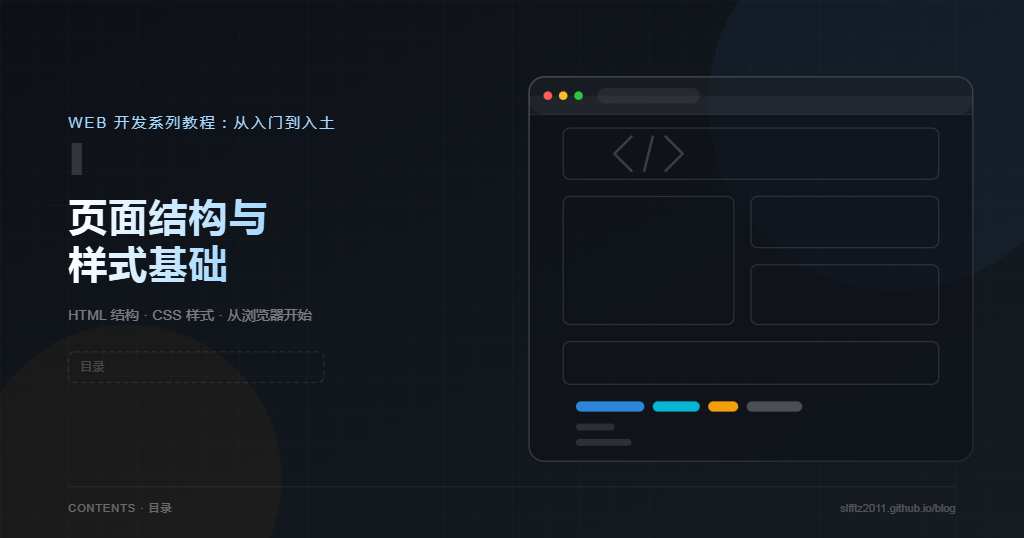
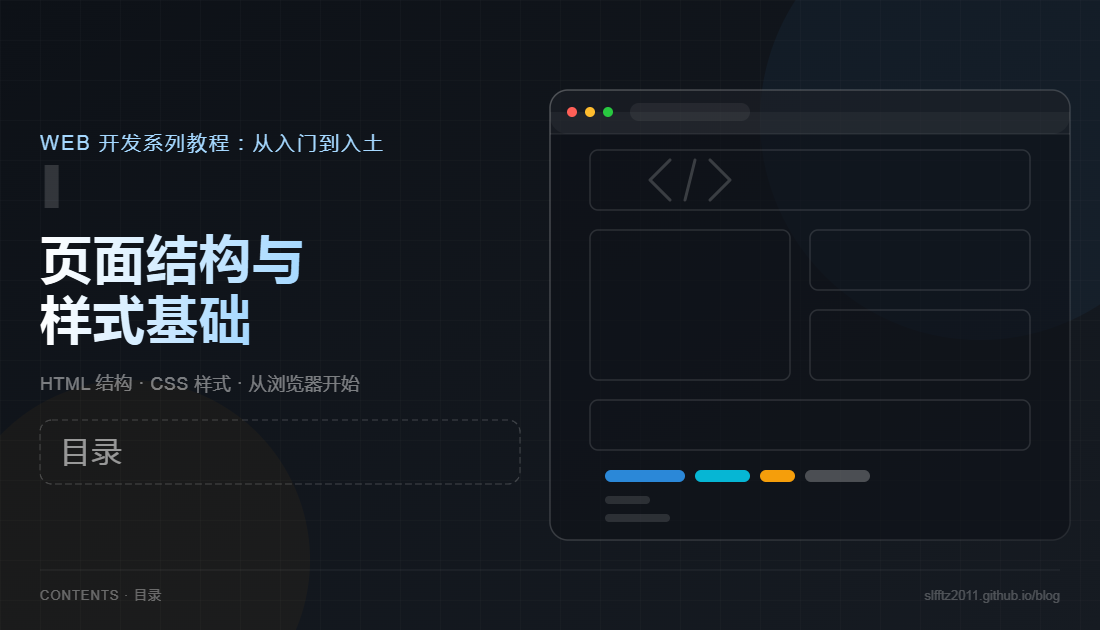
cover

diff --git a/source/toys/volcano/index.md b/source/toys/volcano/index.md
@@ -5,16 +5,25 @@ title: 火山喷发
 
 <title>火山喷发 · Canvas 2D 粒子动画</title>
 <style>
-  #volcano {
-    width: min(960px, 97vw);
-    height: auto;
-    aspect-ratio: 960 / 540;
-    display: block;
+  .volcano-container {
+    width: 100%;
+    aspect-ratio: 960 / 540; /* 保持比例 */
     border-radius: 10px;
-    box-shadow: 0 30px 80px rgba(0,0,0,.9), 0 0 0 1px rgba(255,255,255,.06);
+    overflow: hidden;
+    background: #000;
+    box-shadow: 0 10px 30px rgba(0,0,0,0.5);
+    margin: 20px 0;
+  }
+  .volcano-container canvas {
+    width: 100%;
+    height: 100%;
+    display: block;
   }
 </style>
-<canvas id="volcano" width="960" height="540"></canvas>
+
+<div class="volcano-container">
+  <canvas id="volcano" width="960" height="540"></canvas>
+</div>
 <script src="./1.js"></script>
 <script src="./2.js"></script>
 <script src="./3.js"></script>

diff --git a/source/_posts/webdev-i-0.md b/source/_posts/webdev-i-0.md
@@ -7,6 +7,7 @@ tags:
     - html
     - css
     - contents
+cover: /img/dev/i/web-0-cover.png
 ---
 
 <div align=center>
